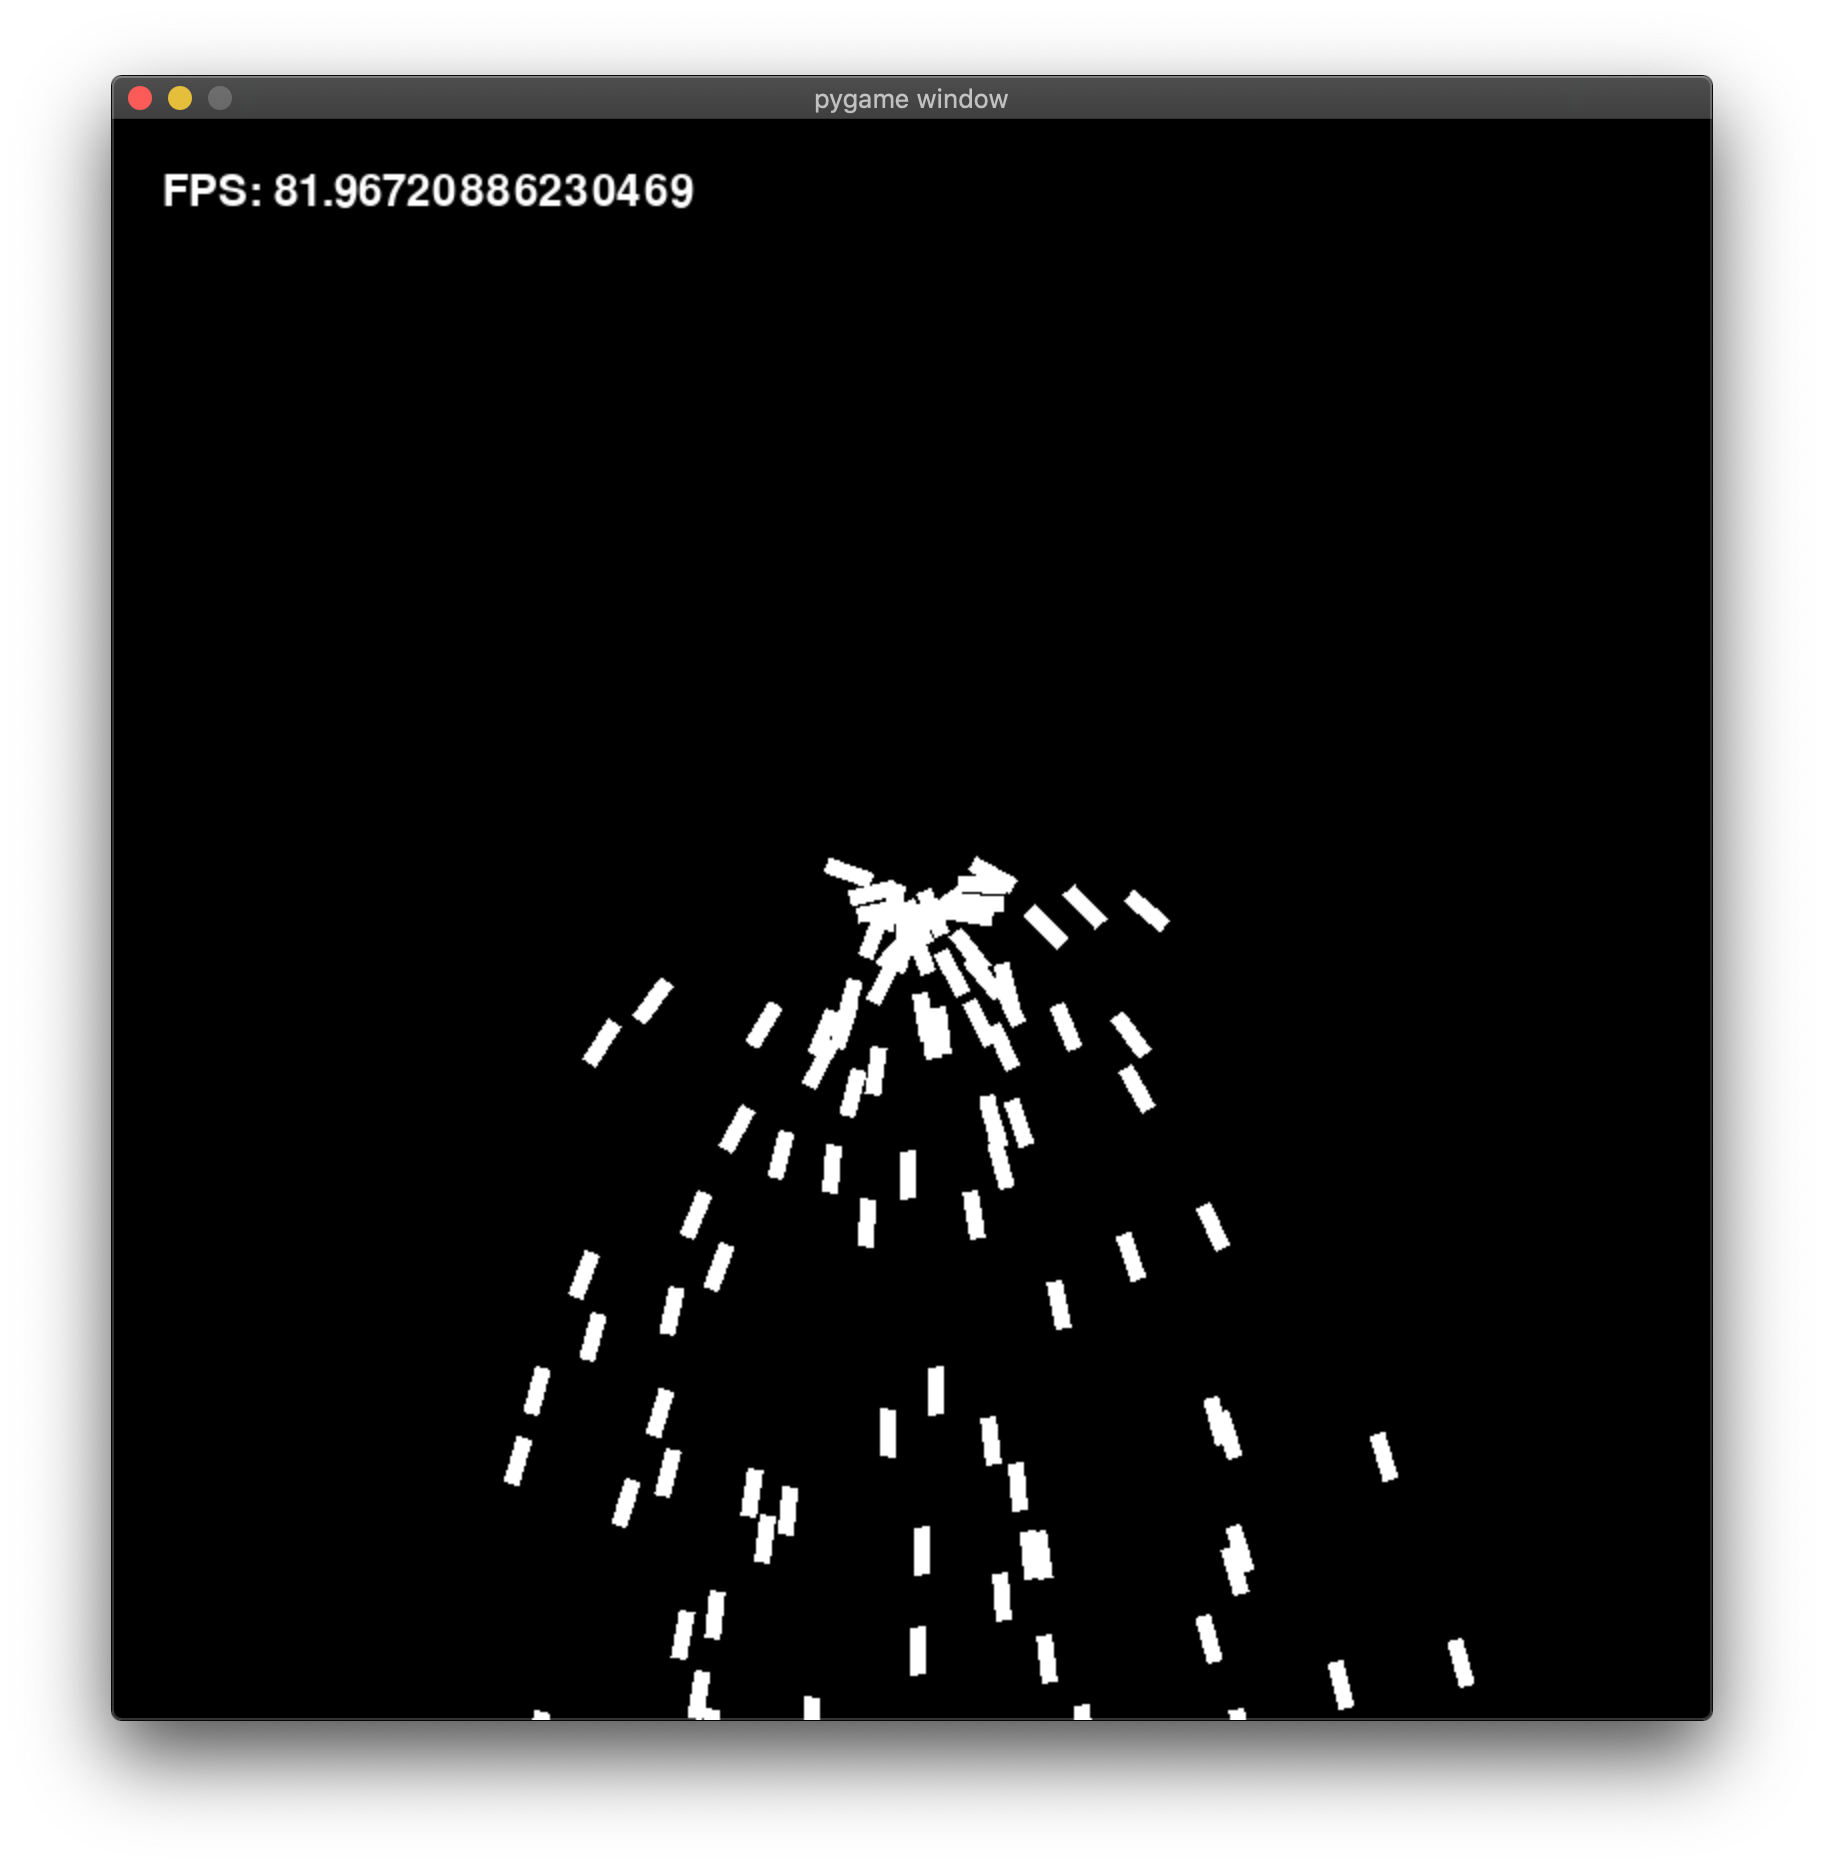
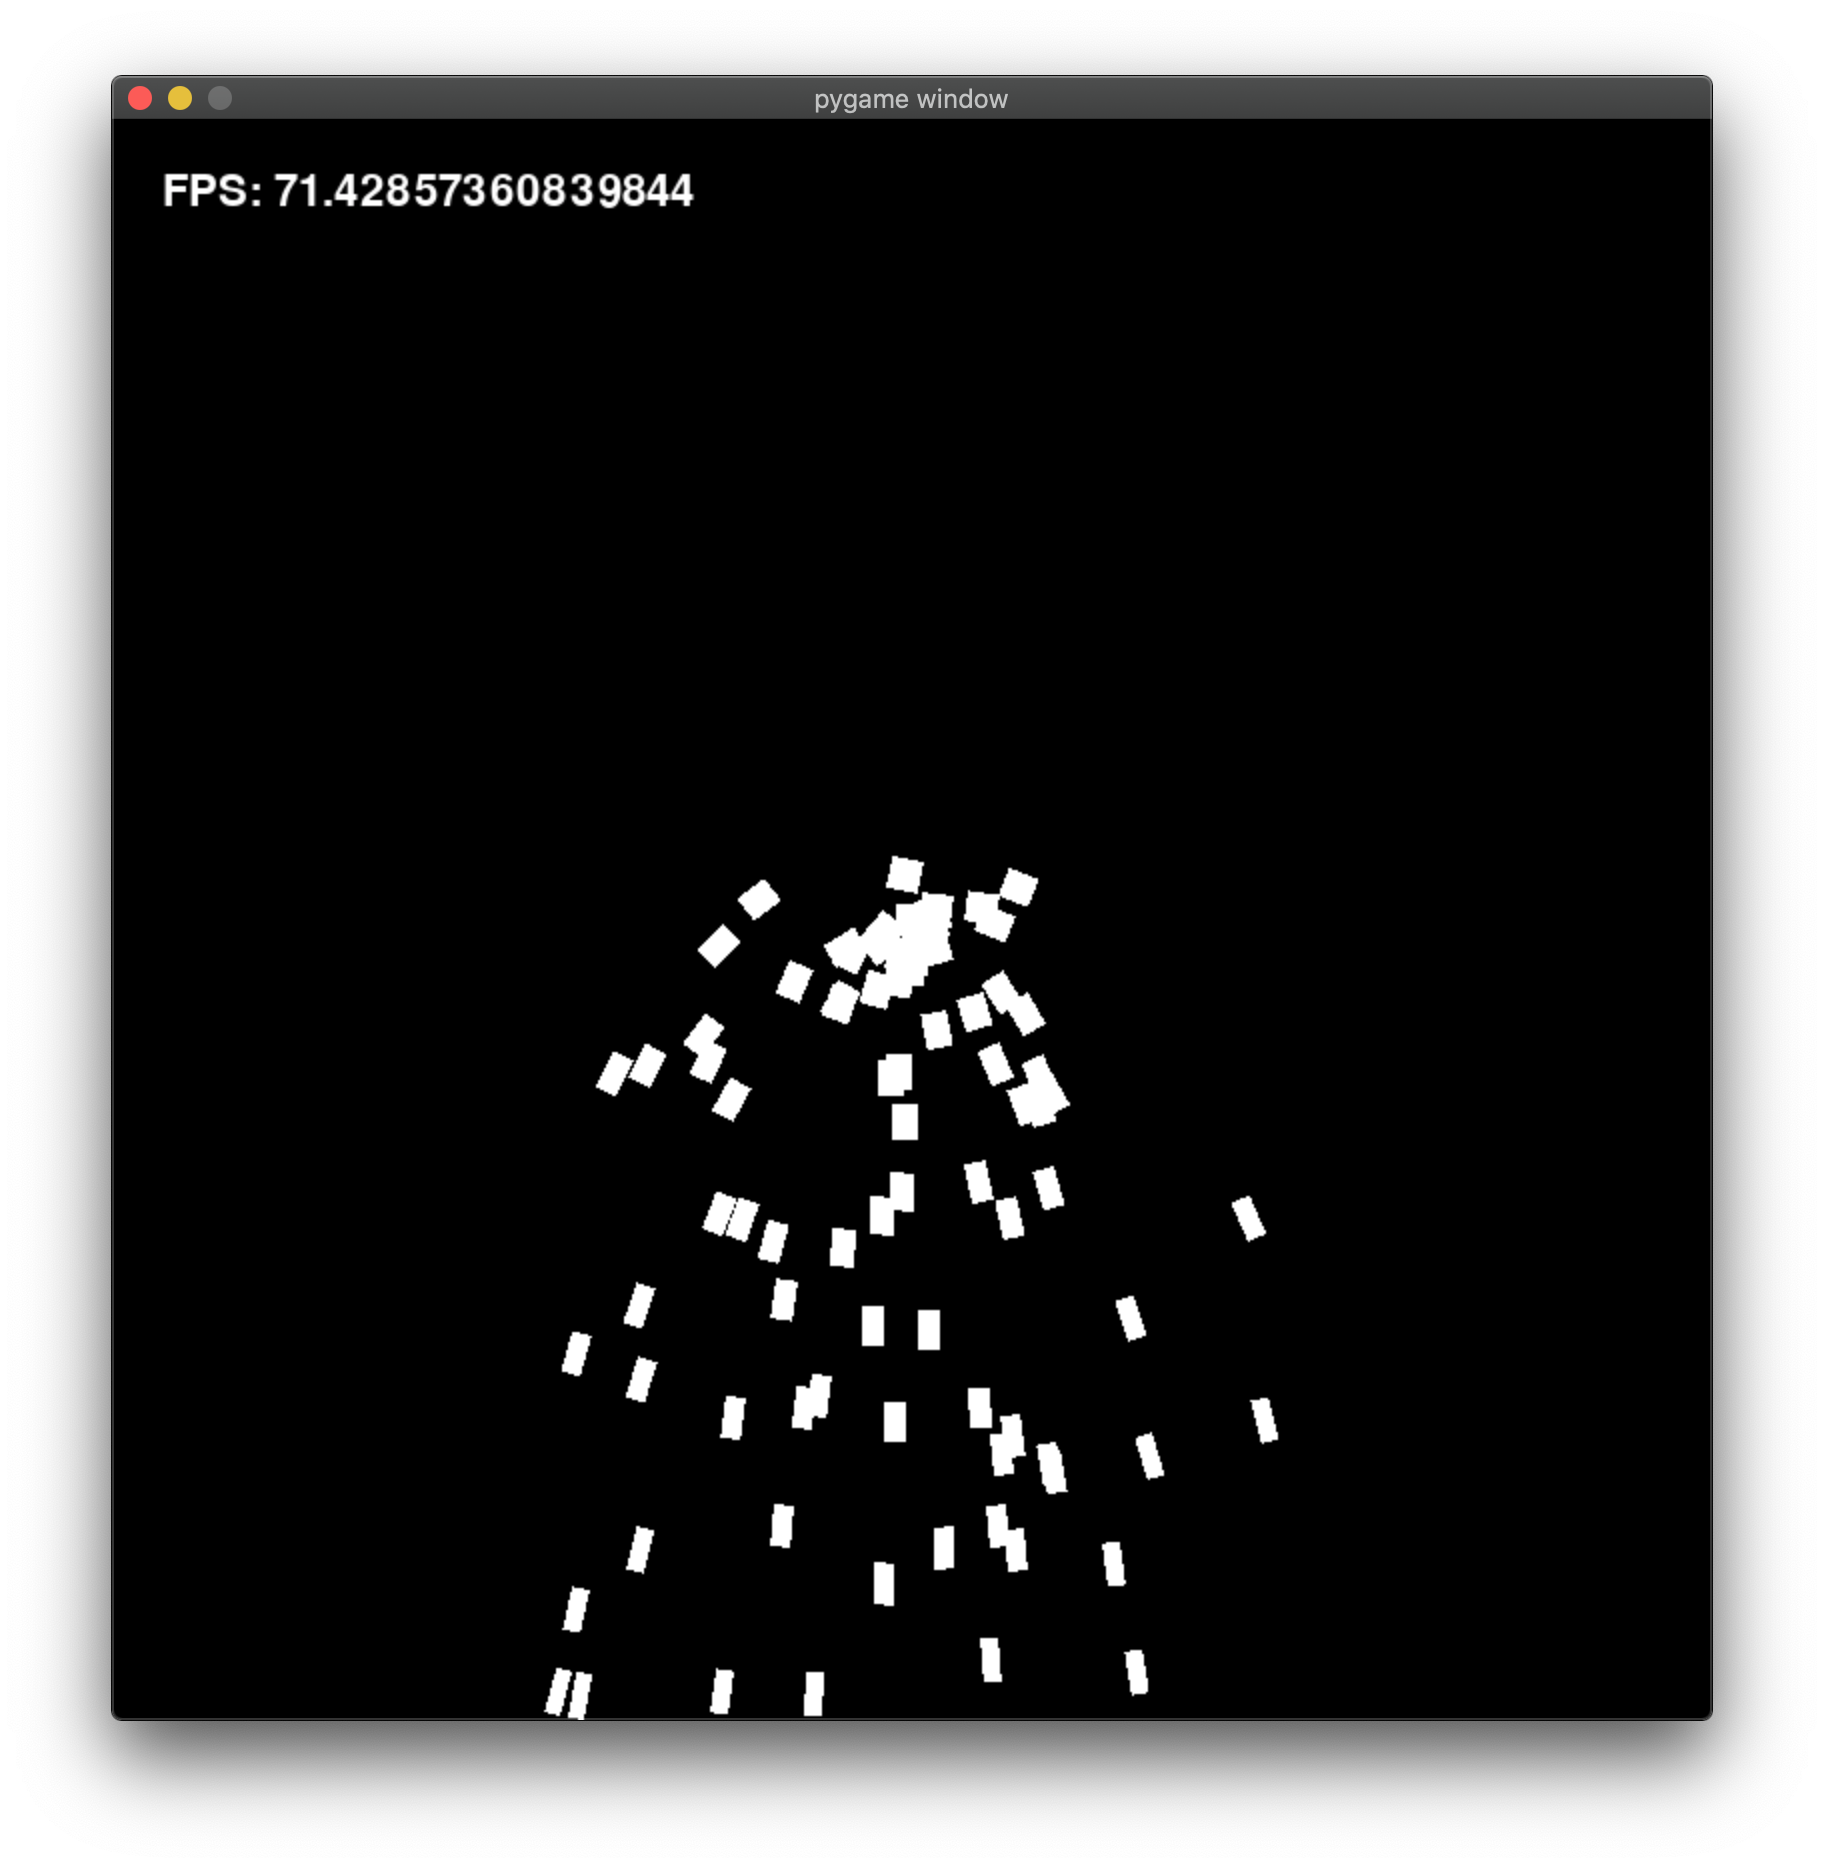
Update docs

diff --git a/transforms/transforms.py b/transforms/transforms.py
@@ -15,18 +15,19 @@ class StretchY(BaseTransform):
         return round(x), round(y)
 
     @classmethod
-    def _get_stretch(cls, particle):
+    def _get_stretch(cls, particle) -> tuple[float, float]:
         total_delta = abs(particle.velocity.x) + abs(particle.velocity.y)
+        total_delta *= 0.025
         if total_delta == 0:
             stretch = particle.rect.height
             compress = particle.rect.width
-            return
+        
+        else:
+            stretch_co = min(max(1, (50 + total_delta) / 50), 1.5)
+            compress_co = 2 - stretch_co
 
-        stretch_co = min(max(1, (50 + total_delta) / 50), 1.5)
-        compress_co = 2 - stretch_co
-
-        stretch = stretch_co * particle.rect.height
-        compress = compress_co * particle.rect.width
+            stretch = stretch_co * particle.rect.height
+            compress = compress_co * particle.rect.width
 
         return compress, stretch
 

diff --git a/transforms/transform_policy.py b/transforms/transform_policy.py
@@ -1,10 +1,10 @@
 from .base_transform import BaseTransform
-
+from typing import Type
 
 class TransformPolicy:
     def __init__(
         self,
-        *transforms: BaseTransform,
+        *transforms: Type[BaseTransform],
         use_cache: bool = False,
         add_image_to_cache: bool = False,
     ):

diff --git a/docs/code/2.2.py b/docs/code/2.2.py
@@ -1,5 +1,4 @@
-from PyGPart import Particle, transforms
-from PygPart.transforms import TransformPolicy
+from PyGPart import Particle, transforms, TransformPolicy
 import pygame as pg
 import random
 

diff --git a/docs/2.2_Transforms.md b/docs/2.2_Transforms.md
@@ -2,12 +2,43 @@
 
 ***Previous [2.1 Getting Started](/docs/2.1_Getting_Started.md)***
 
-Ok so we have a window that has some particles, but it's still not very interesting. Let's make things interesting.
+OK so we have a window that has some particles, but it's still not very interesting. Let's make things interesting.
 
-Start by creating a new function, `policy_transform`, that takes a particle, `p`, as an argument.
+Start by creating a new constant `TRANSFORM_POLICY` that is an instance of `TransformPolicy` that we imported in [2.1](/docs/2.1_Getting_Started.md). 
 ```python
-def policy_transform(p):
+if __name__ == "__main__":
+    TRANSFORM_POLICY = TransformPolicy(
+    
+    )
+
     ...
 ```
 
-Inside this function is where we put each of our transforms. Having a function like this gives us better control
+Inside the initializer, we can add each of the policies that we want.
+
+Note: **The policies will apply in the order they appear in the initializer**
+```python
+if __name__ == "__main__":
+    TRANSFORM_POLICY = TransformPolicy(
+        transforms.StretchY,
+        transforms.PointDelta,
+    )
+
+    ...
+```
+
+Finally in the `create_particle` function, add in the transform policy to the particle initialization.
+```python
+Particle(
+    POSITION,
+    VELOCITY,
+    image,
+    group,
+    transform_policy=TRANSFORM_POLICY # NEW LINE
+) 
+```
+
+Let's run this once again and see the results.
+![image](/docs/assets/2.2_transformed_window.png)
+
+***Next Up: [2.3 Optimization](/docs/2.3_Optimization)***

diff --git a/docs/2.1_Getting_Started.md b/docs/2.1_Getting_Started.md
@@ -4,7 +4,7 @@
 
 In this tutorial we will set up a simple particle animation on a blank window. In the following sections we will discuss how to customize the system.
 
-Ok, at this point I'm going to assume you have `PyGPart` and `Pygame` installed. (They're kinda the thing we're talking about.)
+OK, at this point I'm going to assume you have `PyGPart` and `Pygame` installed. (They're kinda the thing we're talking about.)
 
 Let's start by importing the important bits.
 
@@ -14,7 +14,7 @@ import pygame as pg
 import random
 ```
 
-Ok now that we've done that let's get a window up and running.
+OK now that we've done that let's get a window up and running.
 ```python
 def render_text(surface, text_lines, font):
     for idx, text_line in enumerate(text_lines):
@@ -49,7 +49,7 @@ if __name__ == "__main__":
     animation()
 ```
 
-Ok, so if you've mastered the art of copy and pasting you should see somthing like this.
+OK, so if you've mastered the art of copy and pasting you should see something like this.
 
 ![Window](/docs/assets/2.1_empty_window.png)
 
@@ -106,7 +106,7 @@ def animation():
 
 Note this will create a particle every single frame.
 
-At last we can run this. Our window should look similar to this.
+At last, we can run this. Our window should look similar to this.
 
 ![Window](/docs/assets/2.1_particle_window.png)
 
